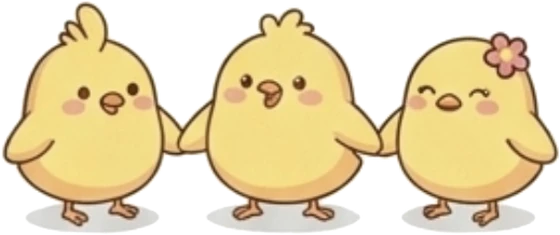
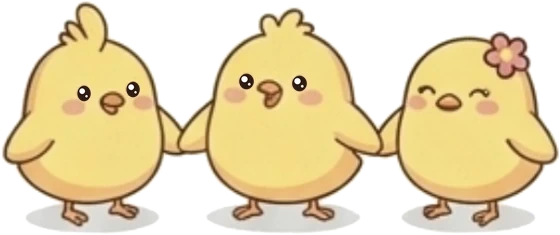
병아리 눈에 반짝임 넣어 생기 있게 (#95)
chick·chick-coins·chick-friends.webp 의 눈동자에 흰 하이라이트(큰 것 + 작은 것)를 그려 넣고,
작은 점눈(동전·손잡은 병아리)은 1.3배로 키움. 웃는 눈(꽃 병아리)은 그대로.

Claude-Session: https://claude.ai/code/session_016ZgbLknpimu6B5p6Umbort

diff --git a/CHANGELOG.md b/CHANGELOG.md
@@ -7,6 +7,9 @@
 
 ---
 
+## 2026-10-31
+- 모든 병아리 그림(기본·동전 저글링·손잡은 셋) 눈에 흰 반짝임을 넣고 점눈을 조금 키워 생기 있게
+
 ## 2026-10-30
 - 작업 규칙(AGENTS.md) 디자인 기준에 달력 칸 일정 표시 반영
 - 날짜에 남긴 일정·메모가 달력 칸(근무 배지 아래)에 작은 글자로 다시 보이게 (색 점 표시, 3개 이상이면 첫 일정 + '+n')
